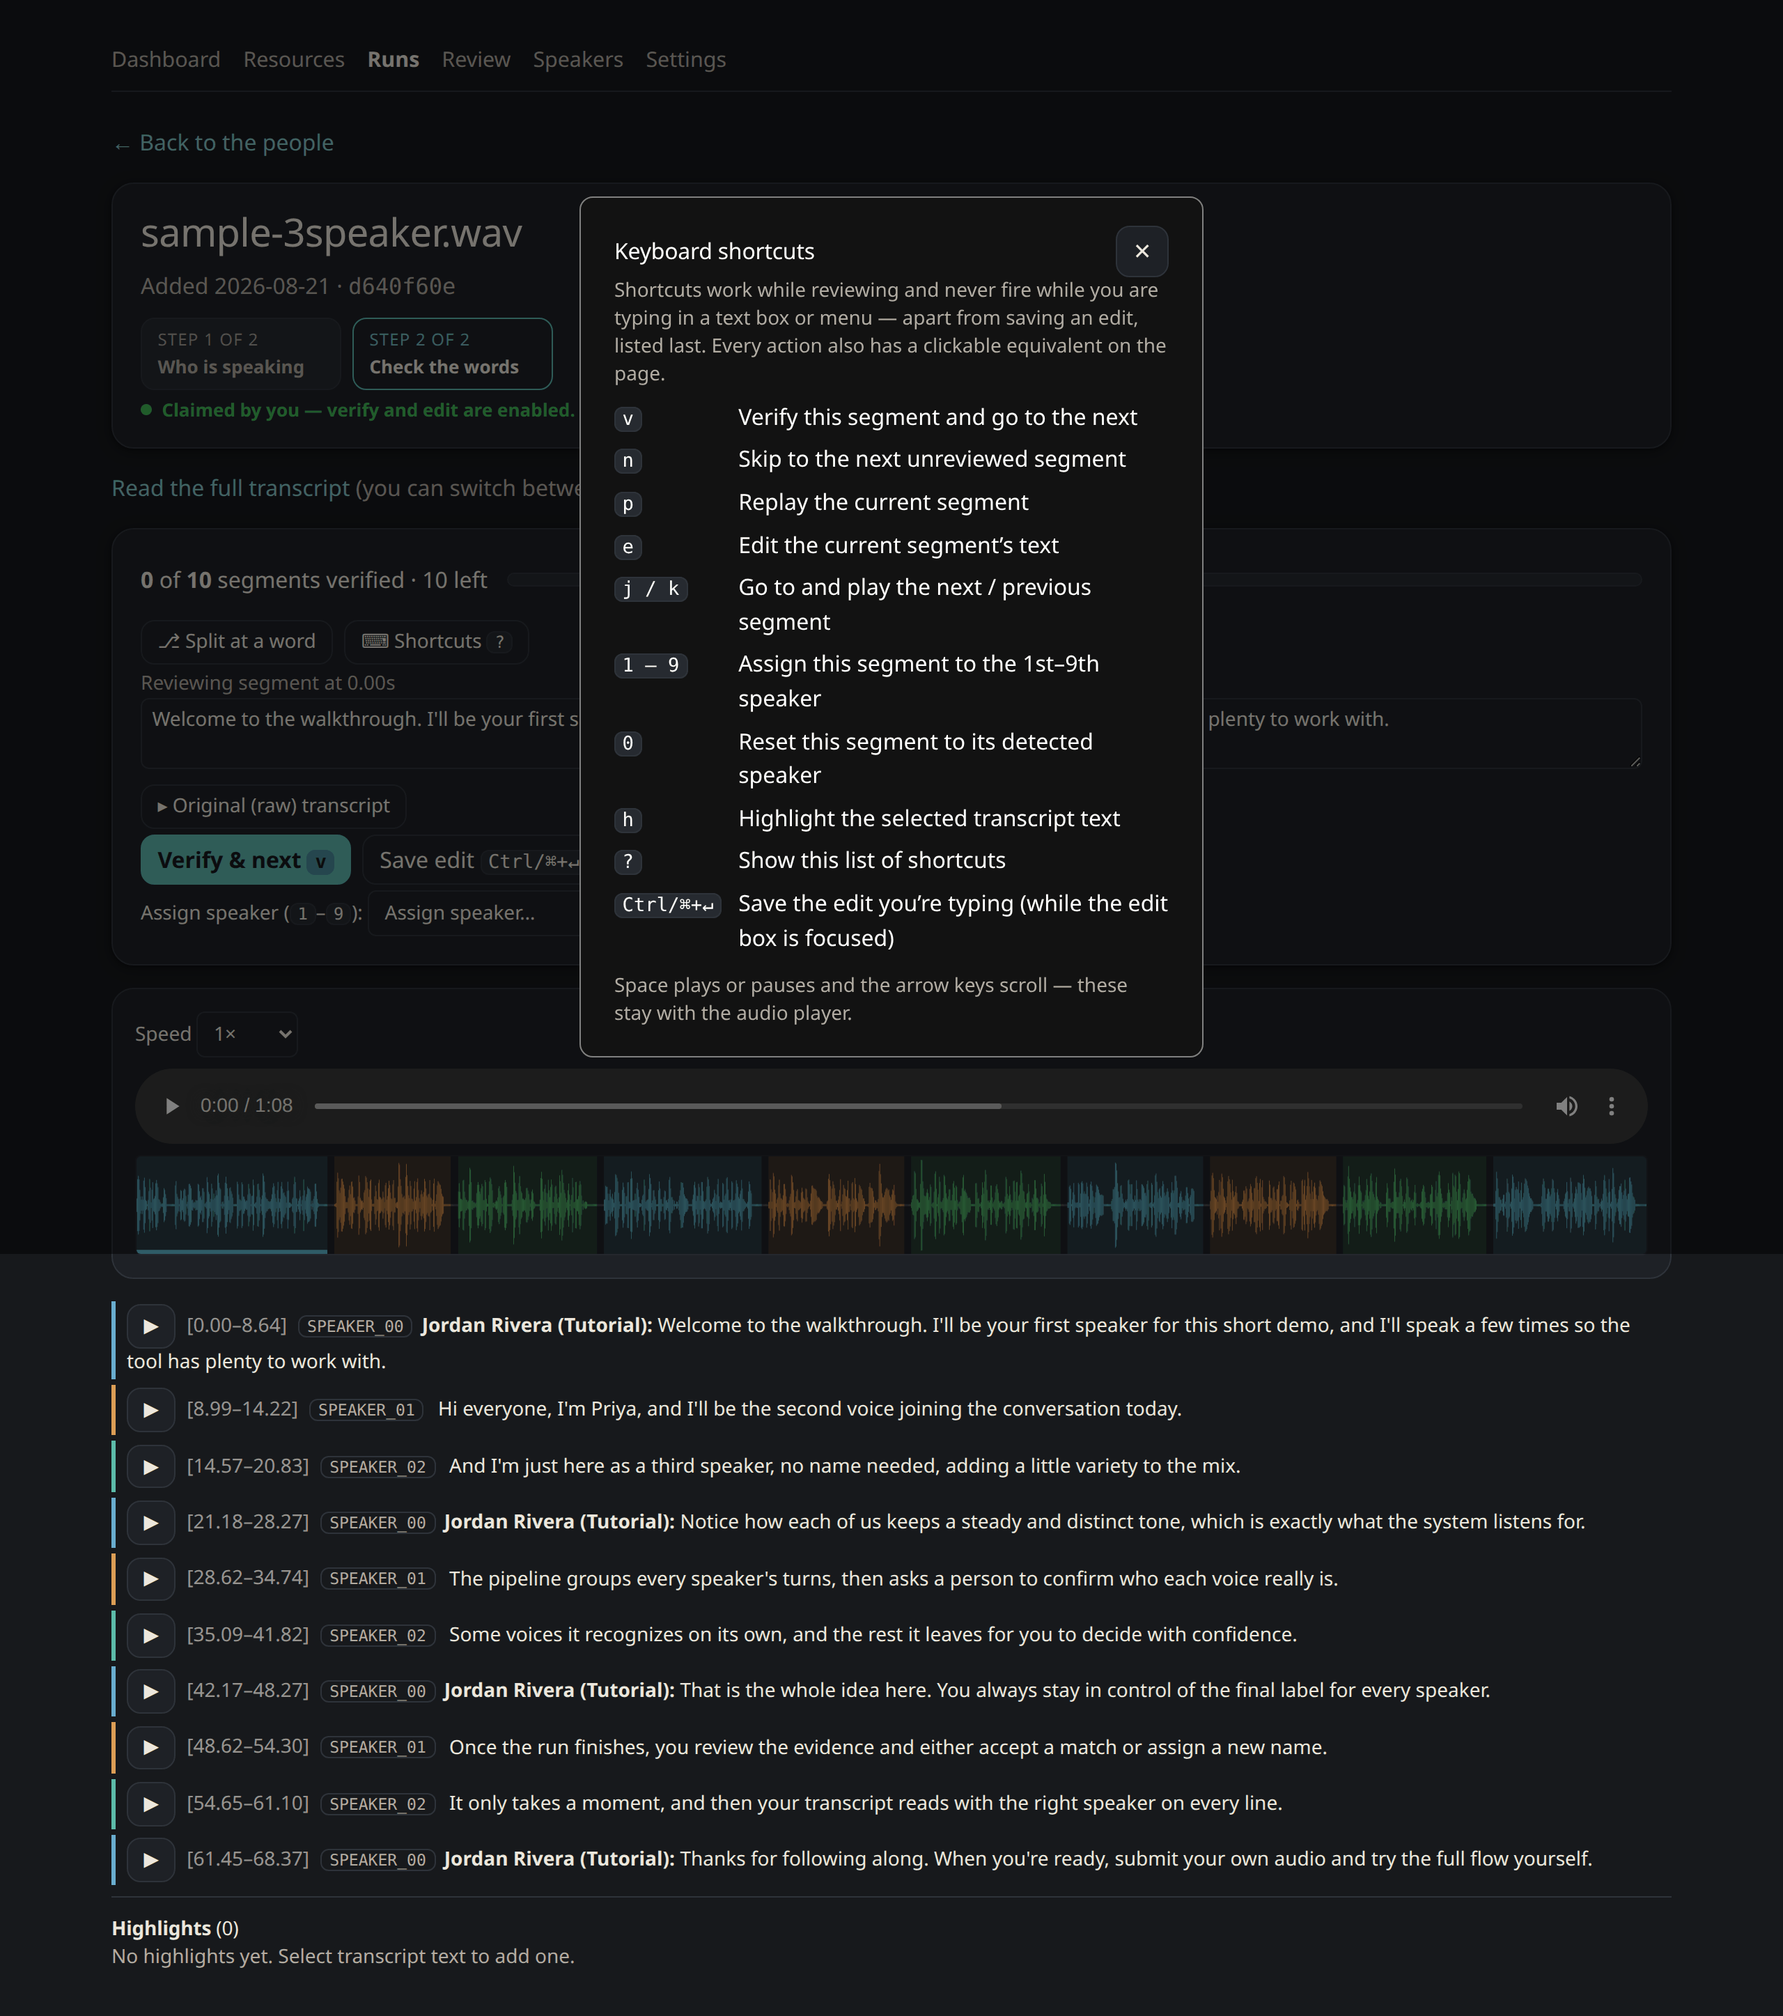
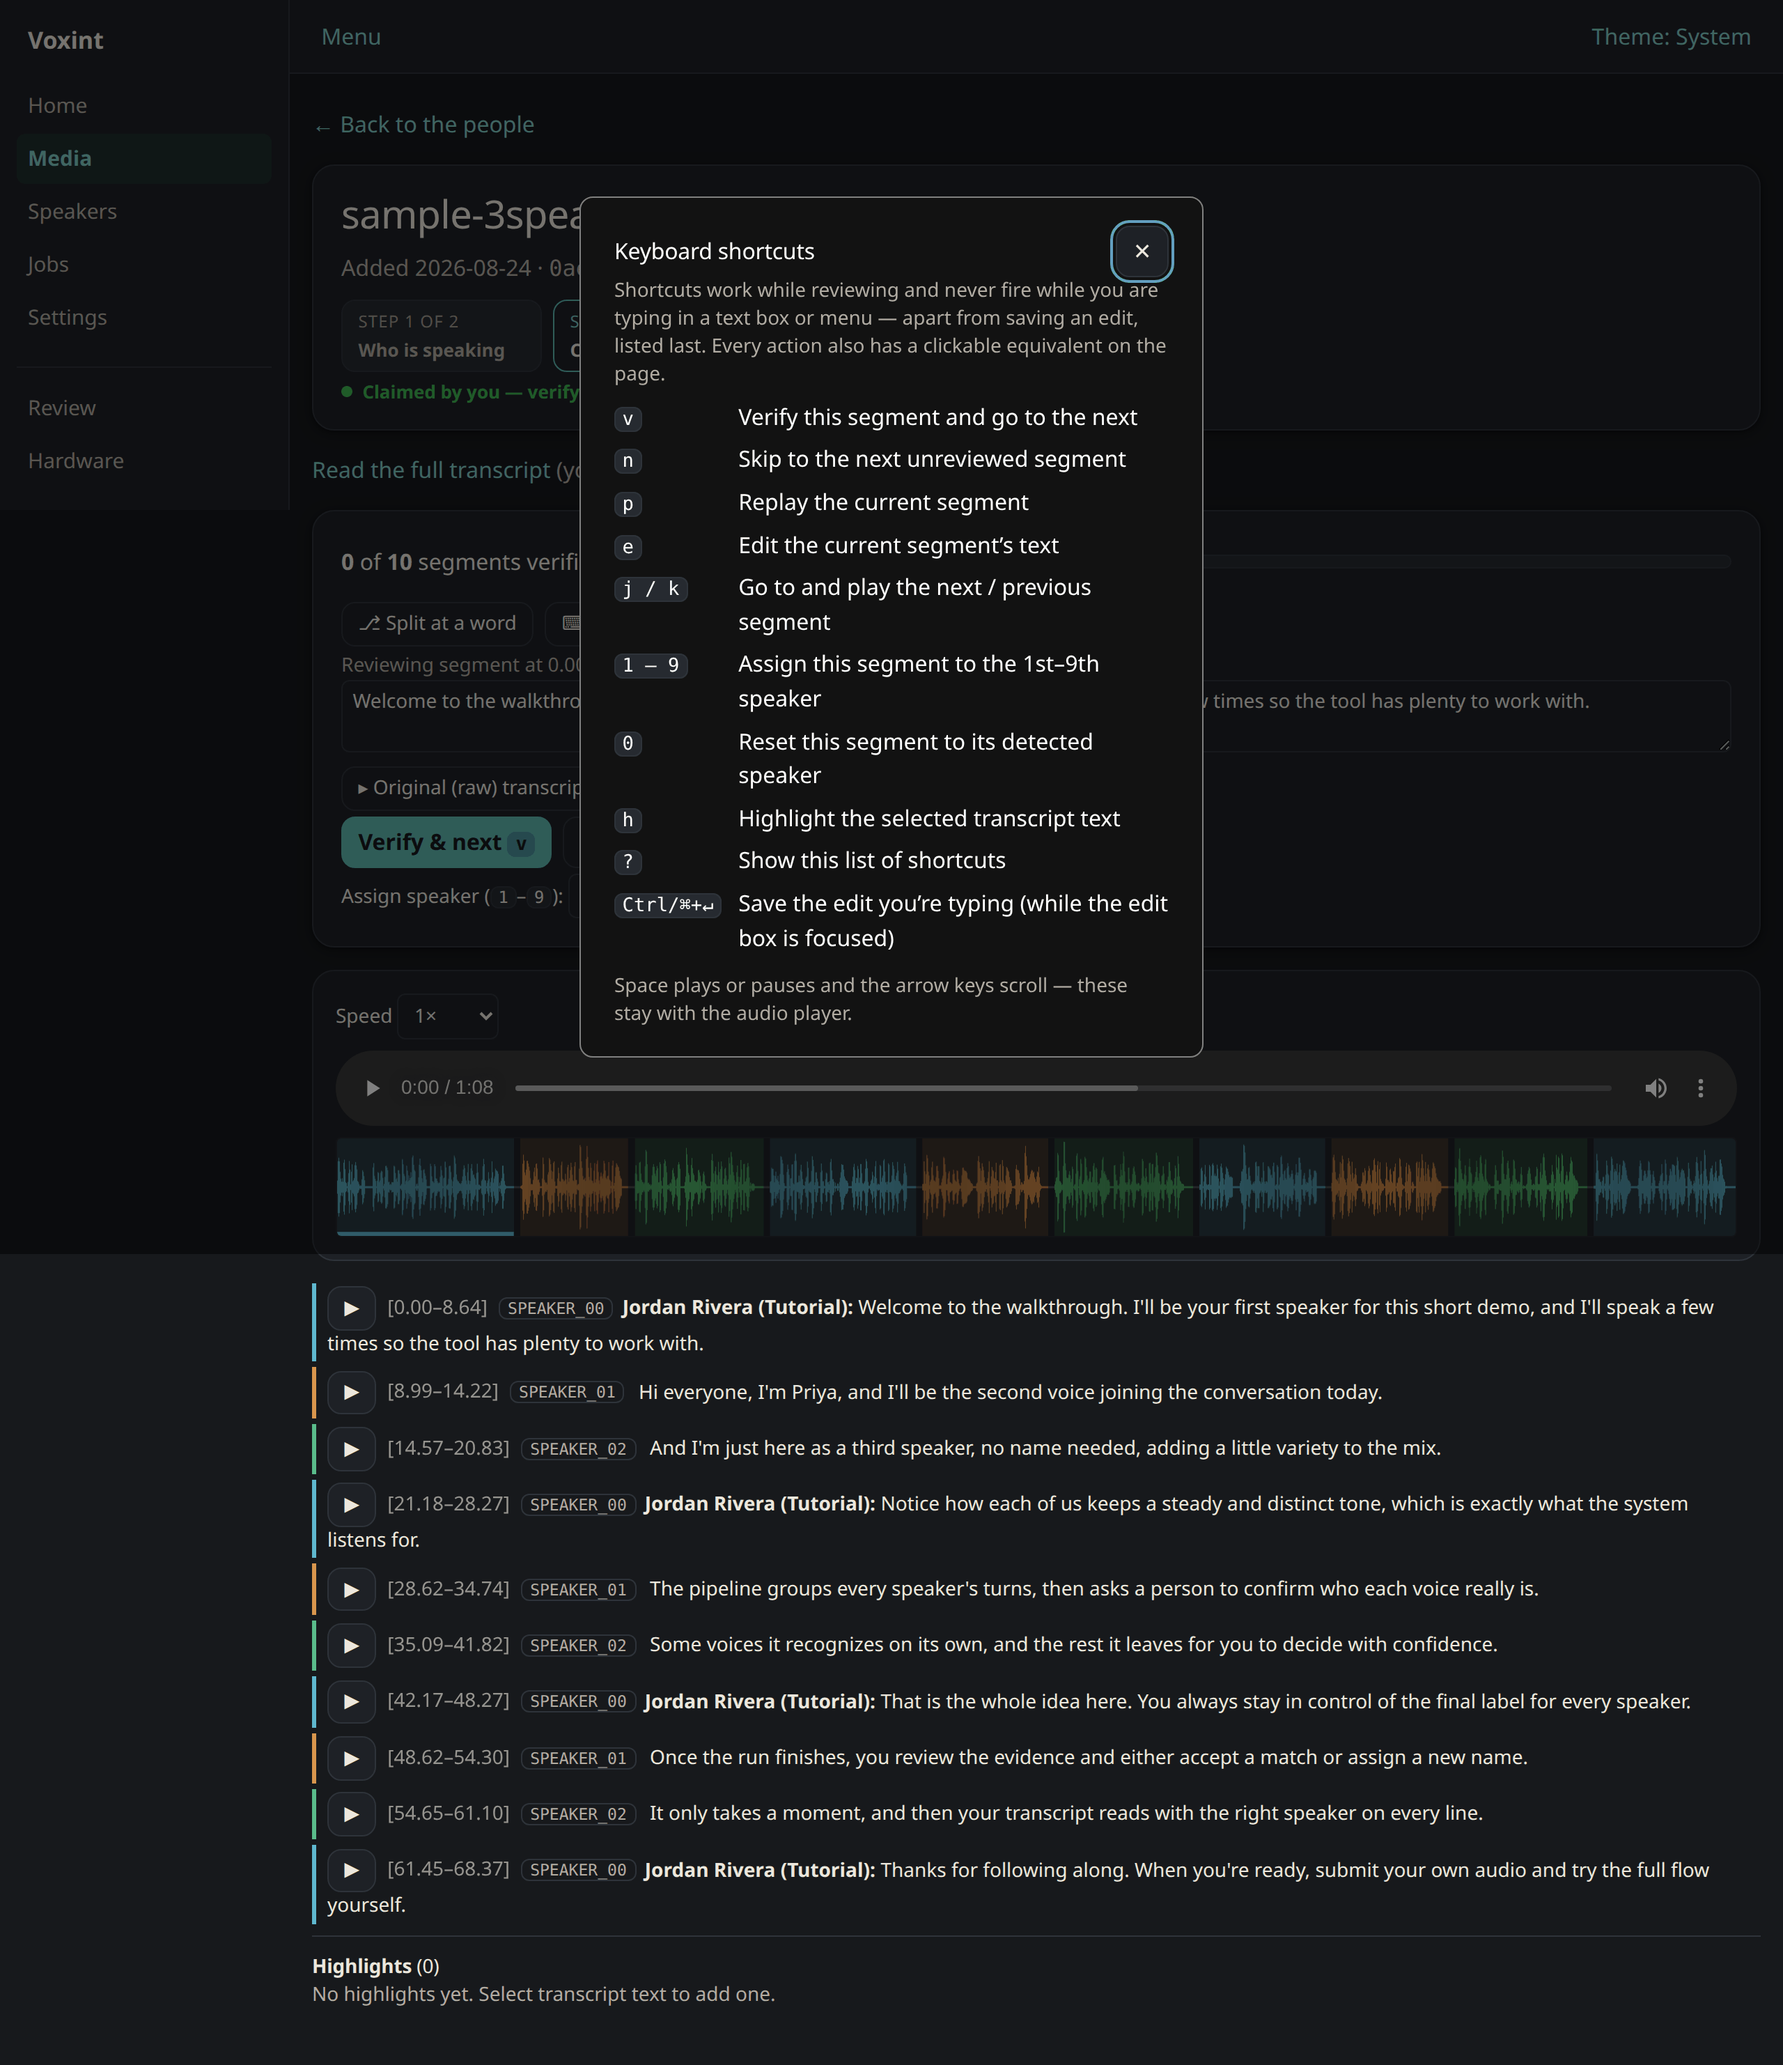
docs(console2): P1 screenshot refresh for the app shell (#152)
Regenerates the console screenshot set against the new sidebar shell:
every page's chrome changed, so a partial regen would leave a visibly
inconsistent gallery (the same forcing function as the visual-polish
refresh). New home.png replaces the retired dashboard.png in the README
gallery; the two player-surface crops are untouched (the player did not
change). Captured dark-theme via the e2e browser lifecycle lane with
the tutorial demo seed; the Settings LLM endpoint renders the neutral
example host. Stale-reference grep clean.

diff --git a/README.md b/README.md
@@ -28,8 +28,8 @@ Voxint.)*
 |---|---|
 | ![The adjudication queue: completed runs with voices still needing a decision](docs/images/review-queue.png) | ![The workbench: each voice shows its evidence: a confident match to accept, a heard name that is only a guess, or no name at all](docs/images/review-workbench.png) |
 | **Your review queue**: completed recordings waiting for your decisions. | **Attribute each voice**: accept a confident match, judge a heard name, or leave a voice unknown. |
-| ![The guided setup wizard's readiness checks, each dependency shown as ready, failed, or unverified](docs/images/setup-wizard.png) | ![The dashboard: run health, throughput, roster size, and per-stage timing](docs/images/dashboard.png) |
-| **Guided setup in the browser**: honest readiness checks, plain-language fixes. | **A dashboard** for run health and throughput at a glance. |
+| ![The guided setup wizard's readiness checks, each dependency shown as ready, failed, or unverified](docs/images/setup-wizard.png) | ![Home: needs-attention cards, quick actions, windowed activity counts, and recent activity](docs/images/home.png) |
+| **Guided setup in the browser**: honest readiness checks, plain-language fixes. | **Home** shows what needs your attention and how to add a recording. |
 
 ## What it does
 
